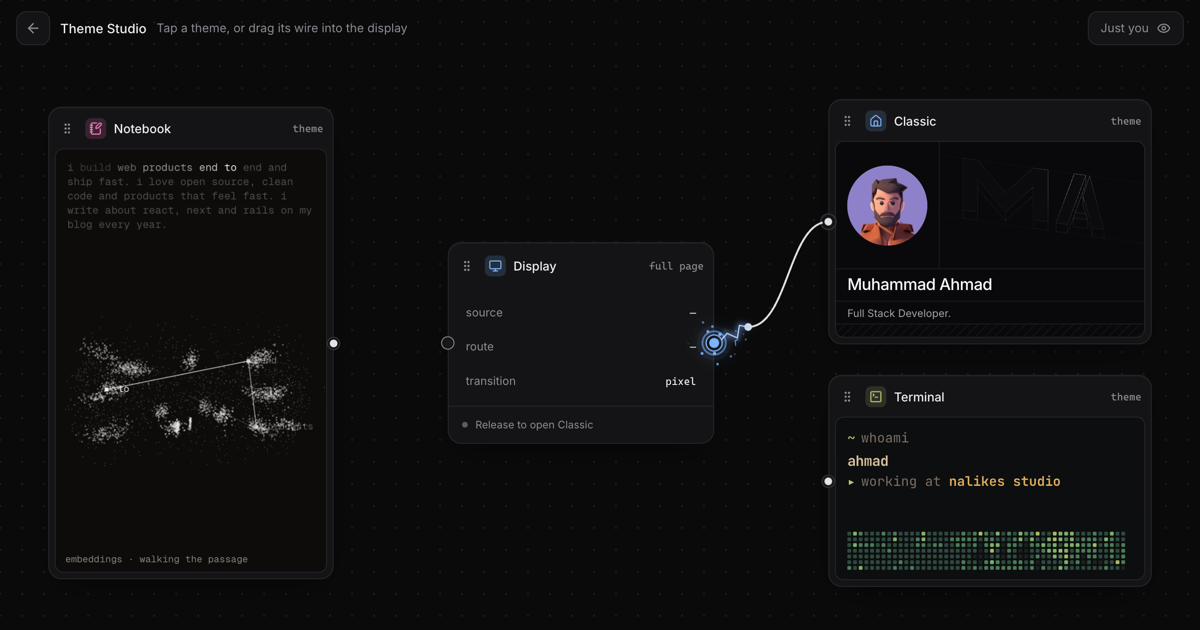
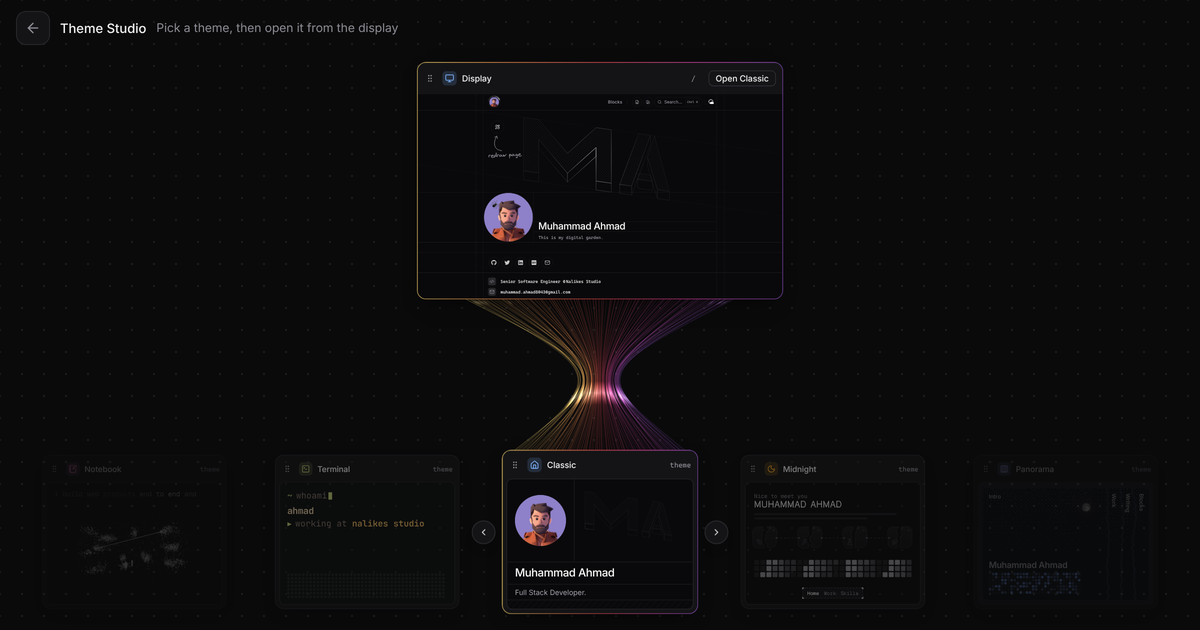
Theme Studio: a share image of the connected display and cards
The 1200x630 picture now shows the Theme Studio as it is: the display on
top playing Classic, joined to the Classic card by the glowing bundle of
wires, the other themes either side. Drawn at twice the size and scaled
down, so it stays sharp. The page asks for it with ?v=2, so sites that
cached the old picture fetch the new one, and its alt text and
description say what it shows.

Claude-Session: https://claude.ai/code/session_01NJmqz8X1oHxA9SVgjBSAMx

diff --git a/pages/theme-studio.tsx b/pages/theme-studio.tsx
@@ -20,9 +20,10 @@ const CanvasPage: NextPageWithLayout<Props> = ({ contributions }) => (
   <>
     <Meta
       title="Theme Studio"
-      description="Pick a theme for Muhammad Ahmad's portfolio by wiring its card into the display."
-      image={`${SITE_URL}/og/theme-studio.png`}
-      imageAlt="Theme Studio in dark mode: a wire from the Classic theme card reaches the display, with sparks jumping to its input, between the Notebook and Terminal cards."
+      description="Pick a theme for Muhammad Ahmad's portfolio, plug it into the display and watch it load."
+      // The version makes sites that cached the old picture fetch this one.
+      image={`${SITE_URL}/og/theme-studio.png?v=2`}
+      imageAlt="Theme Studio in dark mode: the display at the top plays the Classic theme, joined to the Classic card below it by a glowing bundle of gold-to-violet wires, with the Notebook, Terminal, Midnight and Panorama cards either side."
     />
     <h1 className="sr-only">Theme Studio: open a theme by choosing its card, or wire it into the display</h1>
     <CanvasStage contributions={contributions} />
